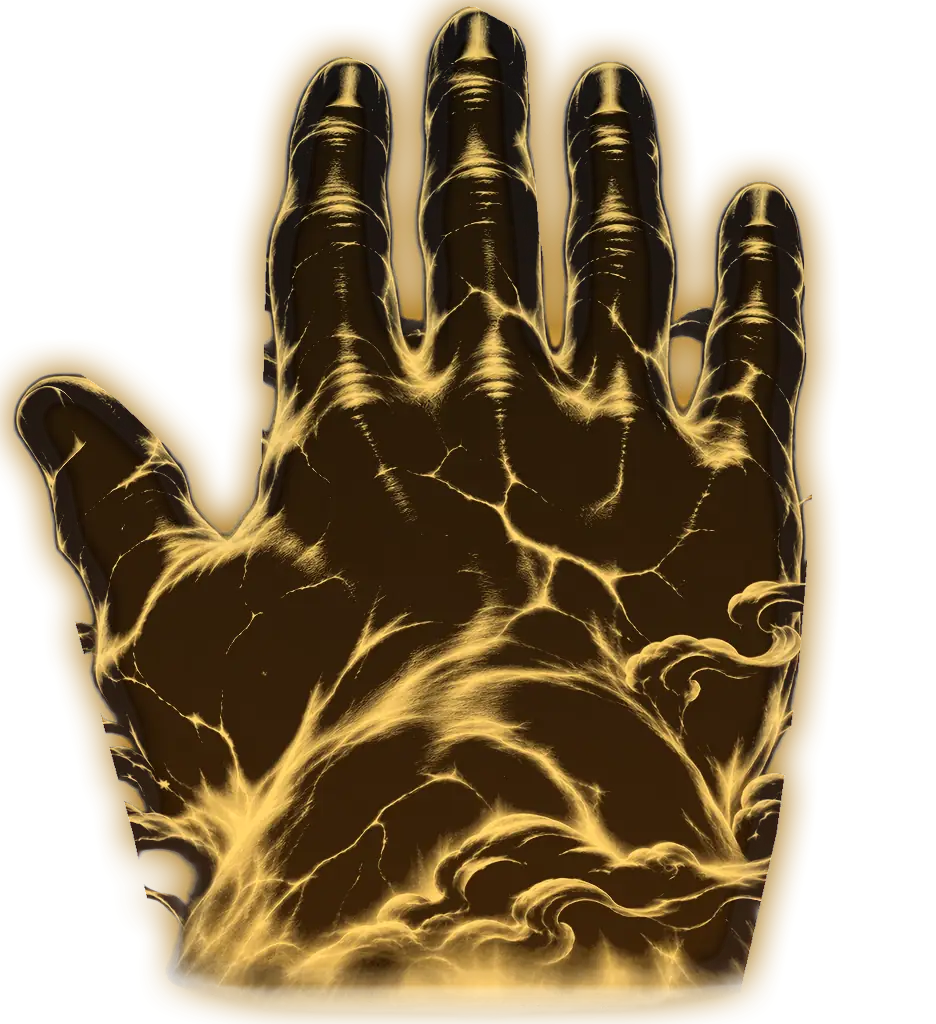
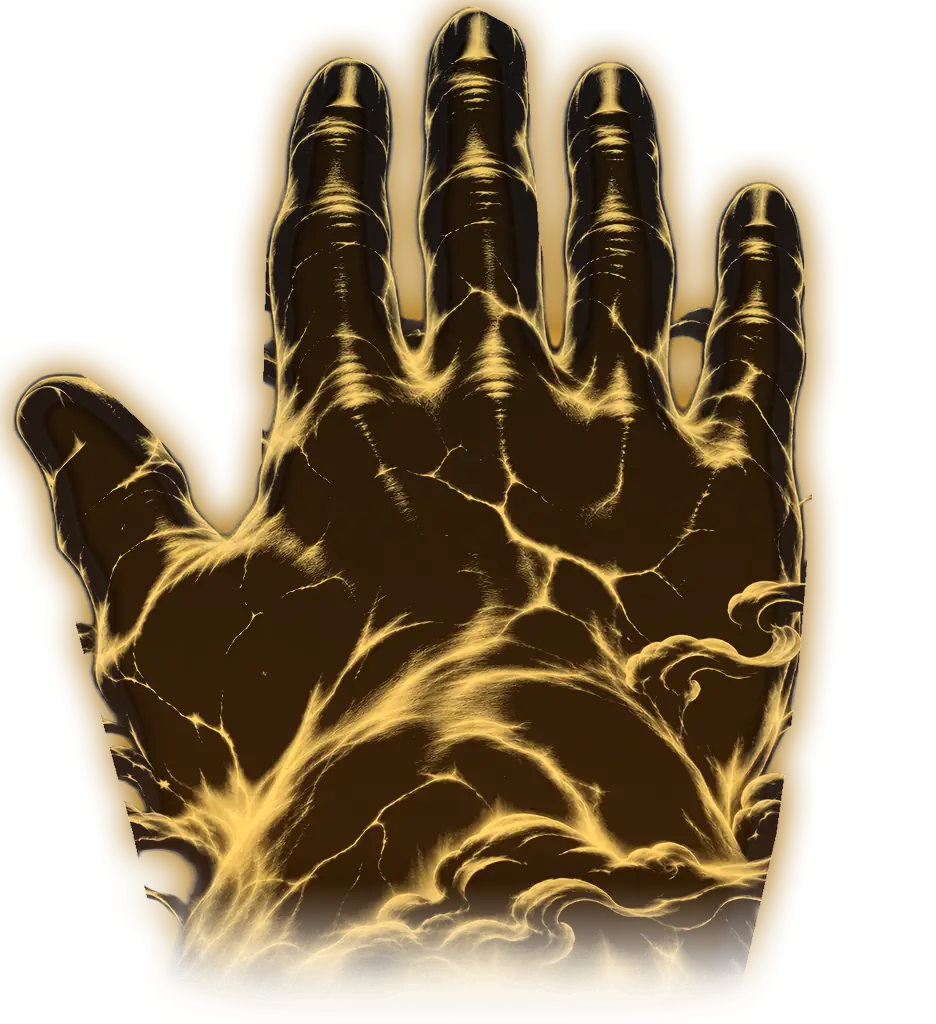
fix(mahjong): 神掌照實際方向（對家指尖朝下、左右家橫向），掌根淡出拉長、條帶對齊像素去掉細橫紋

Changed region(s): [[0.1549, 0.8438, 0.8365, 1.0]]

diff --git a/lib/mahjong/fx/rulaiFx.ts b/lib/mahjong/fx/rulaiFx.ts
@@ -18,7 +18,13 @@ export const RULAI_LIMIT = {
 export const RULAI_STILL_MS = 2600;
 const STILL_END = 620;
 const SQ = 0.54; // 地面效果壓扁，和牌桌傾斜一致
-const DEPTH = [1, 0.88, 0.74, 0.88]; // 座位越遠，手和地面效果都越小（自己、下家、對家、上家）
+const DEPTH = [1, 0.88, 0.74, 0.88];
+/**
+ * 手照實際方向（老闆 2026-11-06）：胡牌的人往前拍下去，自己看指尖朝上；對家看指尖朝下；上家、下家看手是橫的、指尖指向畫面中間。
+ * 角度只用 90° 的倍數：條帶邊界才能對齊像素，不會留下接縫。PERSP＝條帶透視的方向（自己看掌根近、對家看指尖近、左右家幾乎沒有）
+ */
+const HAND_ROT = [0, -Math.PI / 2, Math.PI, Math.PI / 2];
+const PERSP = [1, 0.05, -0.7, 0.05]; // 座位越遠，手和地面效果都越小（自己、下家、對家、上家）
 const TILT_DEG = 15;
 const perspOf = (W: number) => (W > 1000 ? 2200 : 1200);
 
@@ -85,7 +91,7 @@ function bakeFly(faces: readonly HTMLImageElement[], back: readonly [string, str
 }
 
 type Pose = { X: number; Y: number; sc: number; a: number };
-type WarpOpt = { n?: number; lighter?: boolean; alpha?: number; fadeFar?: boolean; strip?: ((m: number) => number) | null };
+type WarpOpt = { n?: number; lighter?: boolean; alpha?: number; strip?: ((m: number) => number) | null };
 
 export class RulaiCanvas {
   private x: CanvasRenderingContext2D;
@@ -93,7 +99,7 @@ export class RulaiCanvas {
   private art: Partial<Record<RulaiArt, HTMLImageElement>>;
   private baked: HTMLCanvasElement[];
   private fly: HTMLCanvasElement; private spark: HTMLCanvasElement; private gl: HTMLCanvasElement; private wave: HTMLCanvasElement; private shadow: HTMLCanvasElement;
-  private hx: number; private hy: number; private rot: number; private base: number; private D: number; private strips: number;
+  private hx: number; private hy: number; private pk = 1; private rot: number; private base: number; private D: number; private strips: number;
   private gold: { i: number; a: number; sp: number; s: number; ph: number; fx: number; fy: number; sway: number }[];
   private flys: { a: number; r0: number; R: number; up: number; spin: number; rot: number; fl: number; ph: number; big: number; face: boolean }[];
   private rubs: { a: number; R: number; up: number; s: number; spin: number; rot: number; ph: number; k: number }[];
@@ -118,7 +124,7 @@ export class RulaiCanvas {
     this.baked = [this.fly, this.spark, this.gl, this.wave, this.shadow];
     // 雲洞在畫面中央和落點的中間；手一律從雲洞往落點來，指尖朝畫面下方
     this.hx = lerp(W / 2, px, 0.55); this.hy = -H * 0.02;
-    this.rot = clamp(Math.atan2(this.hx - px, py - this.hy), -0.42, 0.42);
+    this.rot = HAND_ROT[rel]; this.pk = PERSP[rel];
     this.base = u * RULAI_HAND_SCALE * D;
     const r = rng(1908 + rel), TAU = 6.283;
     // 順序不能改：四家、重播都一樣
@@ -157,17 +163,20 @@ export class RulaiCanvas {
   }
   /** 條帶透視：一張圖切成 N 條，越靠近鏡頭的條帶越寬越高。沒有 3D，只有 drawImage */
   private warp(img: Src, P: Pose, opt: WarpOpt = {}) {
-    const { x, dpr } = this, N = opt.n ?? this.strips, a = P.a, base = this.base * P.sc, iw = widthOf(img), ih = heightOf(img), W0 = (base * iw) / ih;
-    const lenF = (y: number) => -Math.log(1 - a * y) / a, total = lenF(1), sAt = (y: number) => 1 / (1 - a * y), palmAt = 0.62, sMid = sAt(palmAt), palm = lenF(palmAt) / total, c = Math.cos(this.rot), s = Math.sin(this.rot);
-    // y＝0 遠端（畫面上方的指尖）、y＝1 近端（畫面下方的掌根）；老闆 2026-11-06 定案指尖朝上
-    x.setTransform(c * dpr, s * dpr, -s * dpr, c * dpr, P.X * dpr, P.Y * dpr);
+    const { x, dpr } = this, N = opt.n ?? this.strips, a = P.a * this.pk || 1e-4, base = this.base * P.sc, iw = widthOf(img), ih = heightOf(img), W0 = (base * iw) / ih;
+    const lenF = (y: number) => -Math.log(1 - a * y) / a, total = lenF(1), sAt = (y: number) => 1 / (1 - a * y), palmAt = 0.62, sMid = sAt(palmAt), palm = lenF(palmAt) / total;
+    const c = Math.round(Math.cos(this.rot)), s = Math.round(Math.sin(this.rot));
+    // y＝0 指尖、y＝1 掌根。條帶的上下邊都落在整數像素、不重疊、同一個透明度：中間不會出現細橫紋
+    x.setTransform(c * dpr, s * dpr, -s * dpr, c * dpr, Math.round(P.X * dpr), Math.round(P.Y * dpr));
     if (opt.lighter) x.globalCompositeOperation = "lighter";
+    const edge = (y: number) => Math.round((lenF(y) / total - palm) * base * dpr) / dpr;
     for (let i = 0; i < N; i++) {
-      const y0 = i / N, y1 = (i + 1) / N, m = (y0 + y1) / 2, sc = sAt(m) / sMid, Y0 = (lenF(y0) / total - palm) * base, Y1 = (lenF(y1) / total - palm) * base, w = W0 * sc;
-      const al = (opt.alpha ?? 1) * (opt.fadeFar === false ? 1 : sm(clamp((1 - m) / 0.3))) * (opt.strip ? opt.strip(m) : 1);
+      const y0 = i / N, y1 = (i + 1) / N, m = (y0 + y1) / 2, Y0 = edge(y0), Y1 = edge(y1), w = W0 * (sAt(m) / sMid);
+      if (Y1 <= Y0) continue;
+      const al = (opt.alpha ?? 1) * (opt.strip ? opt.strip(m) : 1);
       if (al <= 0.004) continue;
       x.globalAlpha = al;
-      x.drawImage(img, 0, y0 * ih, iw, (y1 - y0) * ih, -w / 2, Y0, w, Y1 - Y0 + 0.7);
+      x.drawImage(img, 0, y0 * ih, iw, (y1 - y0) * ih, -w / 2, Y0, w, Y1 - Y0);
     }
     x.setTransform(dpr, 0, 0, dpr, 0, 0); x.globalAlpha = 1; x.globalCompositeOperation = "source-over";
   }
@@ -197,9 +206,9 @@ export class RulaiCanvas {
       x.globalAlpha = Math.min(1, a0 * 0.6 * pulse * (1 - 0.62 * cSink)); x.drawImage(fis, px - gw / 2, py - gh / 2, gw, gh);
       const peak = sm(seg(A, 300, 760)) * (1 - 0.75 * cSink); x.globalAlpha = a0 * (0.05 + 0.16 * peak) * (0.85 + 0.15 * Math.sin(t * 7)); x.drawImage(fisG, px - gw / 2, py - gh / 2, gw, gh); reset();
       const stamp: Pose = { X: px, Y: py, sc: 1, a: 0.08 };
-      this.warp(crater, stamp, { alpha: sm(seg(A, 20, 240)) * fade * 0.94, fadeFar: false, n: 16 });
+      this.warp(crater, stamp, { alpha: sm(seg(A, 20, 240)) * fade * 0.94, n: 16 });
       const lit = sm(seg(A, 280, 720));
-      if (lit > 0) this.warp(crater, stamp, { lighter: true, fadeFar: false, alpha: lit * 0.5 * fade * (1 - 0.3 * cSink) * (0.86 + 0.14 * Math.sin(ms / 240)), n: 12 });
+      if (lit > 0) this.warp(crater, stamp, { lighter: true, alpha: lit * 0.5 * fade * (1 - 0.3 * cSink) * (0.86 + 0.14 * Math.sin(ms / 240)), n: 12 });
     }
     // ---- 天光（在雲的後面） ----
     const cIn = sm(seg(ms, 0, tl.clouds)), open = sm(seg(ms, tl.clouds, tl.part)), blast = ms > hit ? outC(seg(A, 0, 700)) : 0, cFade = fade * (1 - 0.75 * seg(ms, hit + 300, tl.total - 800));
